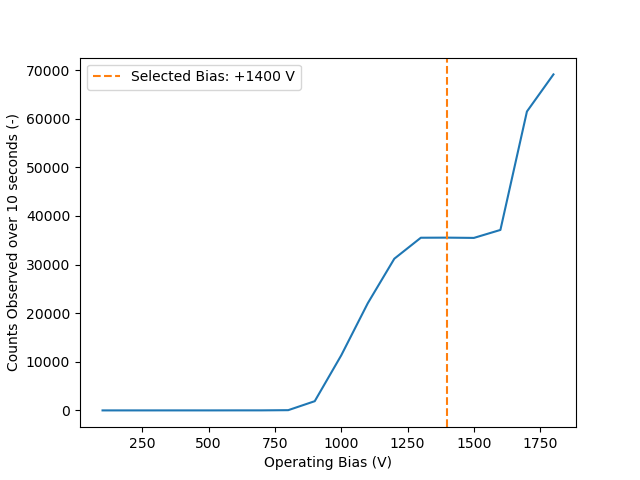
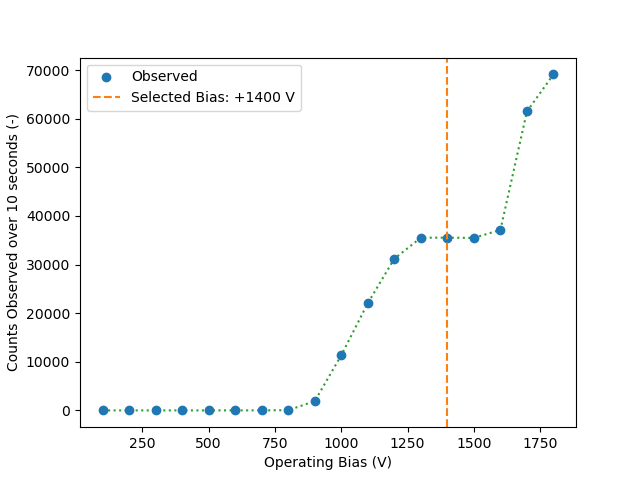
Tweaked results, finished discussion, started intro

diff --git a/report9/main.tex b/report9/main.tex
@@ -73,7 +73,19 @@
 
 \section{Introduction and Background}
 
+Neutron detection is highly important to the safe and effective operation of machines like nuclear reactors.
+However, neutrons undergo a myriad variety of reactions with different materials at different speeds and under different conditions.
+It is thus important to characterize different methods of detecting neutron radiation at different energies.\\
+
+In this laboratory, we investigate the response of a \HeThree gas detector to thermal neutrons, and the use of a stlibene organic scintillator to characterize energies of fast neutrons.
+
+\subsection{Detection of Thermal Neutrons}
+\subsection{Spectroscopy of Fast Neutrons}
+
 \section{Experimental Procedure}\label{sec:methods}
+In this laboratory, we use a 
+\subsection{Part 1: Thermal Neutron Detection}
+\subsection{Part 2: Fast Neutron Detection}
 \section{Experimental Results}\label{sec:results}
 
 \subsection{Part 1: Thermal Neutron Detection}
@@ -144,6 +156,13 @@ The same spectra, plotted logarithmically and normalized relative to the most pr
 
 \FloatBarrier
 \section{Discussion}\label{sec:disc}
+In the counting curve for the \HeThree detector in \figref{counting_curve}, we observe a plateau in counts between approximately 1200 and 1600~V.
+By choosing an operating bias in the middle of this plateau (1400~V), we minimize the likely variation in counting rate that may be caused by slight fluctuations in actual operating bias, compared to the nominal operating bias.\\
+
+Excluding background radiation, we observe three loose peaks in energies.
+Knowing the three energies we expect from responses in a \HeThree detector, we expect the peaks to correspond, in order of increasing energy and channel, to the 191~keV carried by the product tritium ion, the 573~keV carried by the product proton, and the 764~keV of observing both products at once, that is, the full Q-value of the detector reaction.\\
+
+
 We observe a fairly linear scintillator light output response, with the three chosen calibration edges (from 661.7~keV \CsSrc, 511~keV \NaSrc, and 1.2~MeV \NaSrc) exhibiting a fairly linear relationship between feature energy and scintillator channel, as seen in \figref{cal_three}.
 This is as expected, and validates our use of the linear energy calibration $E=1.855c + 101.067$~keV to interpret energy spectra.\\
 
@@ -152,9 +171,13 @@ A gate of 40~ns (\figref{PSD_40ns}) did not observe many peaks before the gate a
 The higher gates yielded clearer distinction between gamma and neutron interactions (Figs.~\ref{PSD_80ns} to \ref{PSD_120ns}), but the distinction was most clear for a gate of 80~ns.
 We observe that, using the 80~ns gate, gamma rays featured a tail-to-total ratio (PSD ratio) of below 0.3 (\figref{PSD_80ns}), while neutron interactions yielded PSD ratios of above 0.3, motivating our PSD ratio discrimination of 0.3.\\
 
+\newcommand{\isec}{s$^{-1}$}
 We observe several notable effects of shielding on neutron spectra in \figref{spec_shieldmags}.
-When adjusted for acquisition time, the unshielded \CfSrc spectrum features the most counts (78860), as expected, followed by single-layer lead shielding (40372), and in decreasing strength, one (27613), three (24622), and five (22641) layers of polyethylene.
-Notably, the first layer of polyethylene provided the most drastic shielding
+When adjusted for acquisition time, the unshielded \CfSrc spectrum features the most overall counts (262.866~\isec), as expected, followed in decreasing strength by one (184.087~\isec), three (164.147~\isec), and five (150.940~\isec) layers of polyethylene, and finally by lead (67.287~\isec).
+We observe a ratio of 0.366 between the total count rates attenuated by lead and one layer of polyethylene, which is not unexpected despite the lead layer ($7.71\pm0.01$~mm) being thinner than a polyethylene layer ($12.8\pm0.1$~mm), as lead is a much denser material.
+However, in the same figure, lead appears to be drastically more effective in attenuating the peak of slow neutrons, which can be confirmed using the normalized plot in \figref{fig:spec_log}, where compared to the peak of low energy neutrons (between 200 and 250~keV), the lead-attenuated spectrum actually features more higher-energy neutrons (250 to 600~keV) than even the unshielded spectrum, confirming this favor towards slowing low energy neutrons.
+Conversely, in the same figure we observe that increasing thicknesses of polyethylene resulted in fewer events of higher energy neutrons compared to the low-energy peak, suggesting that polyethylene is more effective at absorbing and downscattering high-energy neutrons, and could thus be an effective way to "thermalize" neutron sources, given sufficient thickness.
+We observe that Stilbene is thus an effective detector for higher energy neutron spectroscopy, allowing us to identify neutron energies at ranges from 200~keV up to scales of MeV (Figs.~\ref{}), and being able to identify energy dependent phenomena such as the lead plate being more effective at attenuating slower neutrons and polyethylene for faster neutrons within this range.
 
 
 \section{Conclusions}\label{sec:conc}

diff --git a/report9/2plots.py b/report9/2plots.py
@@ -89,16 +89,20 @@ plt.show()
 
 # Experiment 2: spectra through shielding
 ex2_paths = [f"./dat/Cf252_80ns/{root}.txt" for root in [
-    "bare", "poly1", "poly3", "poly5", "lead"
+    "bare", "lead", "poly1", "poly3", "poly5"
 ]]
 
 ex2_names = [
     "No Shielding",
+    "Lead (7.71±0.01 mm)",
     "PE (12.8±0.1 mm)",
     "PE (25.6±0.2 mm)",
     "PE (38.4±0.3 mm)",
-    "Lead (7.71±0.01 mm)"
 ]
+
+ex2_times = np.array([
+    5, 10, 5, 5, 5
+]) * 60
 
 ex2_counts = []
 ex2_specs = []
@@ -125,13 +129,18 @@ plt.yscale("log")
 plt.legend()
 plt.show()
 
-for i in range(len(ex2_paths)):
+# for i in range(len(ex2_paths)):
+for i in [0, 2, 3, 4, 1]:
     name = ex2_names[i]
     spec = ex2_specs[i]
+    time = ex2_times[i]
+    spec /= time
     total = sum(spec)
+    
+    print(f"Total counts ({name}): {total:,}")
     ener = np.array(range(len(spec)))*m + b
-    plt.plot(ener, spec, label=f"{name} (Total: {int(total)})")
+    plt.plot(ener, spec, label=f"{name} (Total: {total:.3f} s^-1)", c=f"C{i}")
 plt.xlabel("Energy (keV)")
-plt.ylabel("Counts over 10 minutes")
+plt.ylabel("Counts per second")
 plt.legend()
 plt.show()

diff --git a/report9/plots.py b/report9/plots.py
@@ -32,7 +32,8 @@ counts = np.array([
 ])
 SELECTED_BIAS = 1400
 
-# plt.plot(volts, counts)
+# plt.plot(volts, counts, linestyle="dotted", c="C2", zorder=-1)
+# plt.scatter(volts, counts, label="Observed")
 # vbar(SELECTED_BIAS, "Selected Bias: +1400 V", c="C1")
 # plt.xlabel("Operating Bias (V)")
 # plt.ylabel("Counts Observed over 10 seconds (-)")
@@ -68,9 +69,9 @@ def get_spec_cps(path, crop=None):
 spec, time = get_spec("dat/lab9_part1.Spe")
 print(f"spec: {spec}")
 
-peaks = np.array([312, 535, 940])
+peaks = np.array([312, 535, 980])
 
-E_He = [0.573, 0.191, 0.764]
+E_He = [0.191, 0.573, 0.764]
 E_B = [0.84, 1.47, 0.94*2.310 + 0.06*2.792]
 E_Li = [2.73, 2.05, 4.78]
 
@@ -79,8 +80,8 @@ for e in [E_He, E_B, E_Li]:
 
 bins = np.array([i for i in range(len(spec))])
 plt.plot(bins, spec, label="PuBe source (thermalized)")
-vbar(peaks[0], "E(p), 573 keV", "C1")
-vbar(peaks[1], "E(T), 191 keV", "C2")
+vbar(peaks[0], "E(T), 191 keV", "C1")
+vbar(peaks[1], "E(p), 573 keV", "C2")
 vbar(peaks[2], "E(sum), 764 keV", "C3")
 plt.xlabel("Bin #")
 plt.ylabel("Counts")
